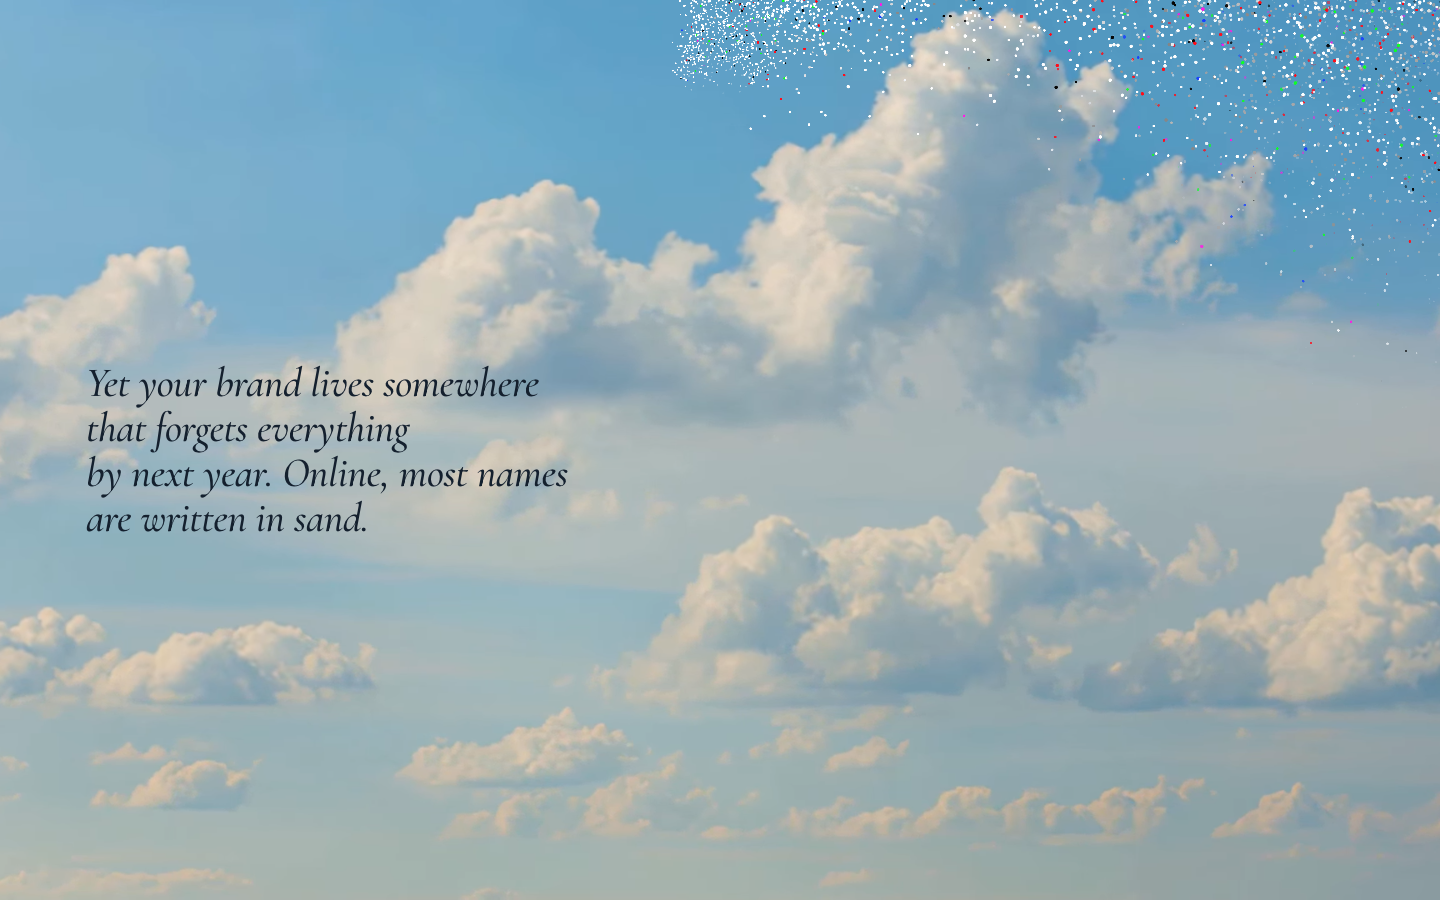
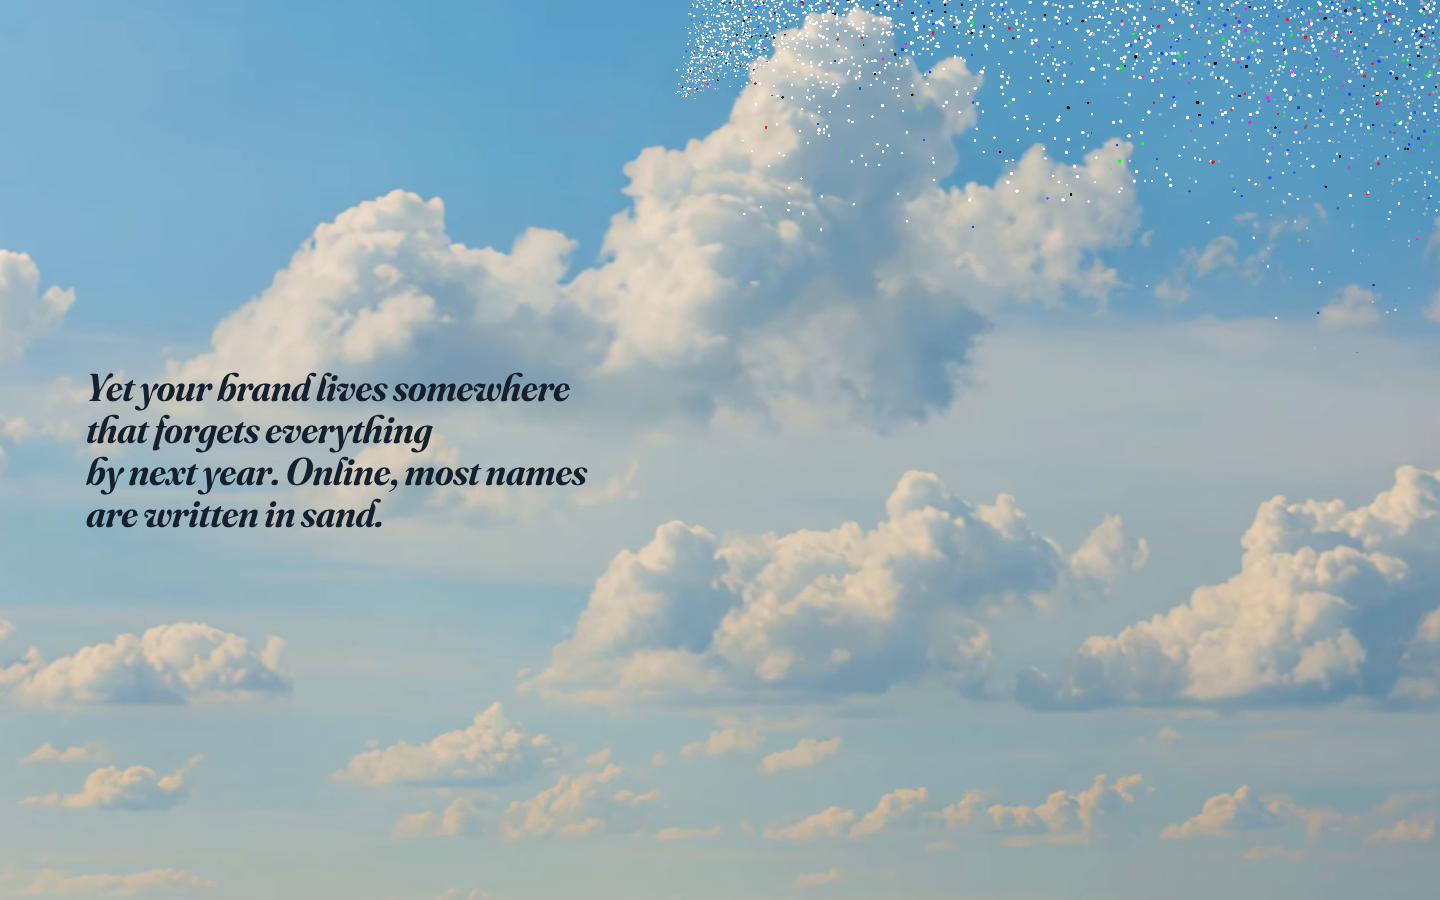
Fraunces loaded as a variable font
Claude-Session: https://claude.ai/code/session_01NAdPXLUXCGhh82qBsMYyAh

diff --git a/src/app/layout.tsx b/src/app/layout.tsx
@@ -12,7 +12,7 @@ const display = Cormorant_Garamond({
 const copyFace = Fraunces({
   variable: "--font-copy-src",
   subsets: ["latin"],
-  weight: ["500", "600", "700"],
+  weight: "variable",
   style: ["normal", "italic"],
   axes: ["opsz", "SOFT"],
 });
